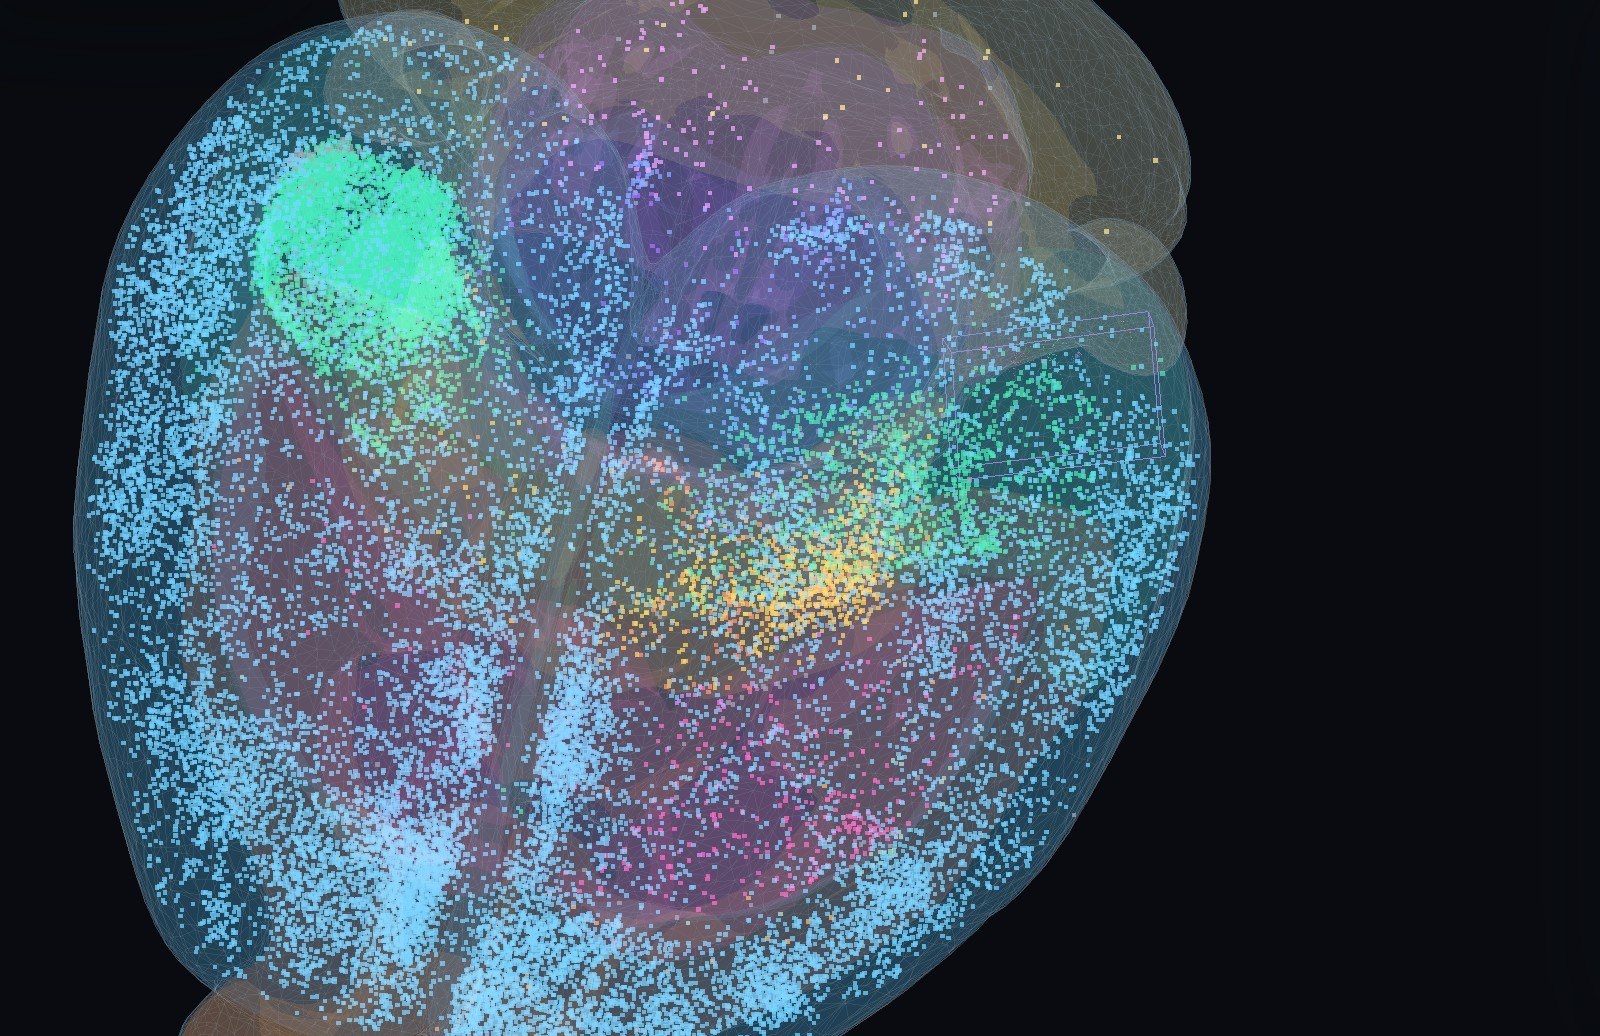
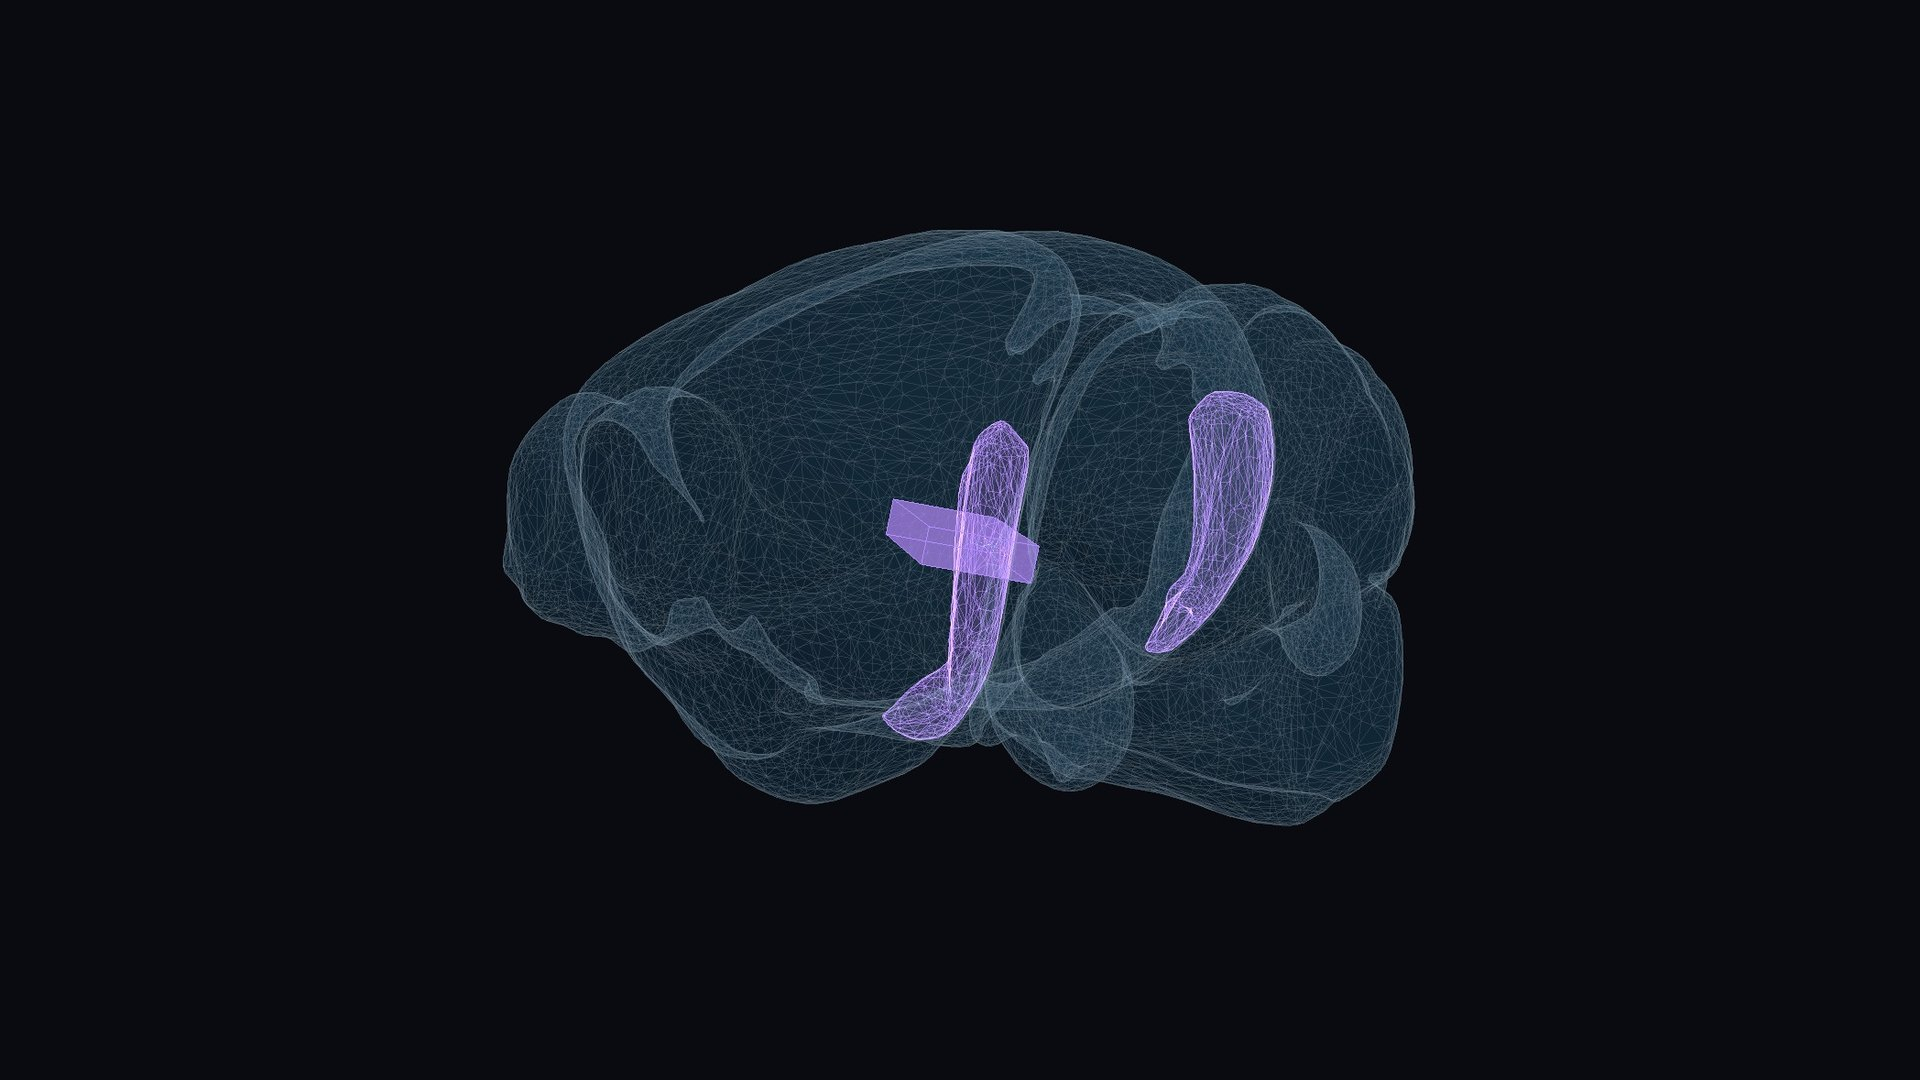
Symposium page: the brain card's fallback picture is the quiet embed itself (shell, purple MEC outline, lit box), rendered from the page at 1920 by 1080

diff --git a/symposium/index.html b/symposium/index.html
@@ -235,7 +235,7 @@
 
     <section class="sym__card sym__brain" aria-labelledby="brain">
       <div class="sym__brainpic" id="brainView">
-        <img src="/assets/images/mec-in-mouse-brain.jpg" alt="A whole mouse brain in 3D with thousands of neurons drawn as colored dots, and the MEC volume outlined as a small box." loading="lazy" />
+        <img src="/assets/images/mec-in-mouse-brain.jpg" alt="A whole mouse brain in 3D as a translucent shell, the medial entorhinal cortex outlined in purple and the MEC dataset drawn as a lit box inside it." loading="lazy" />
         <button type="button" id="brainGo">Turn it in 3D</button>
       </div>
       <div>
